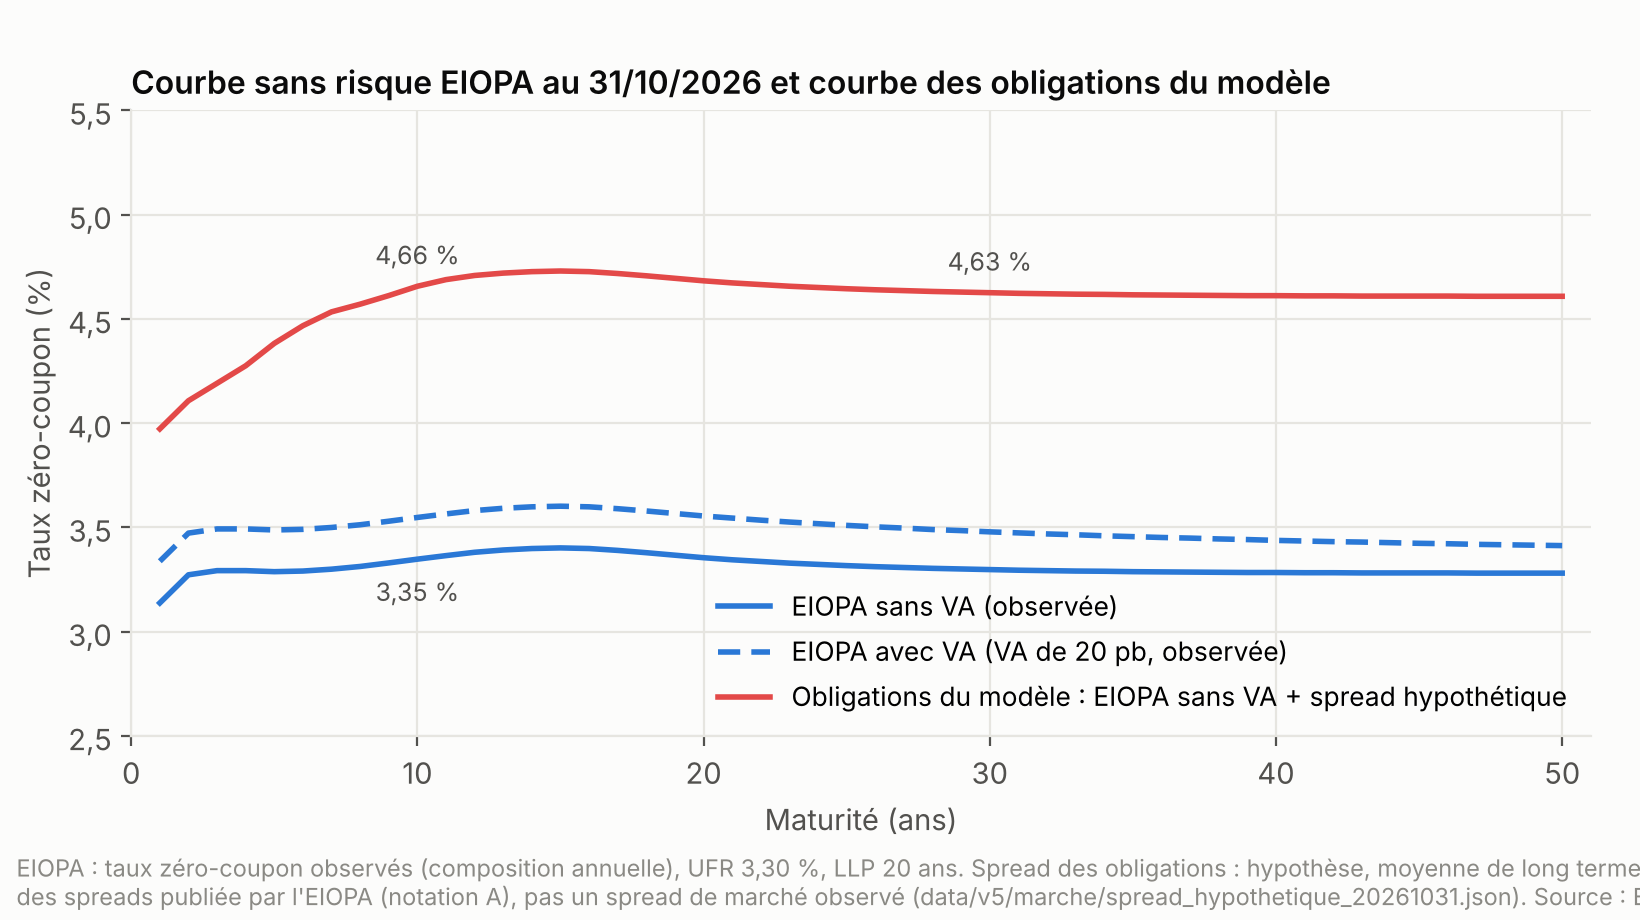
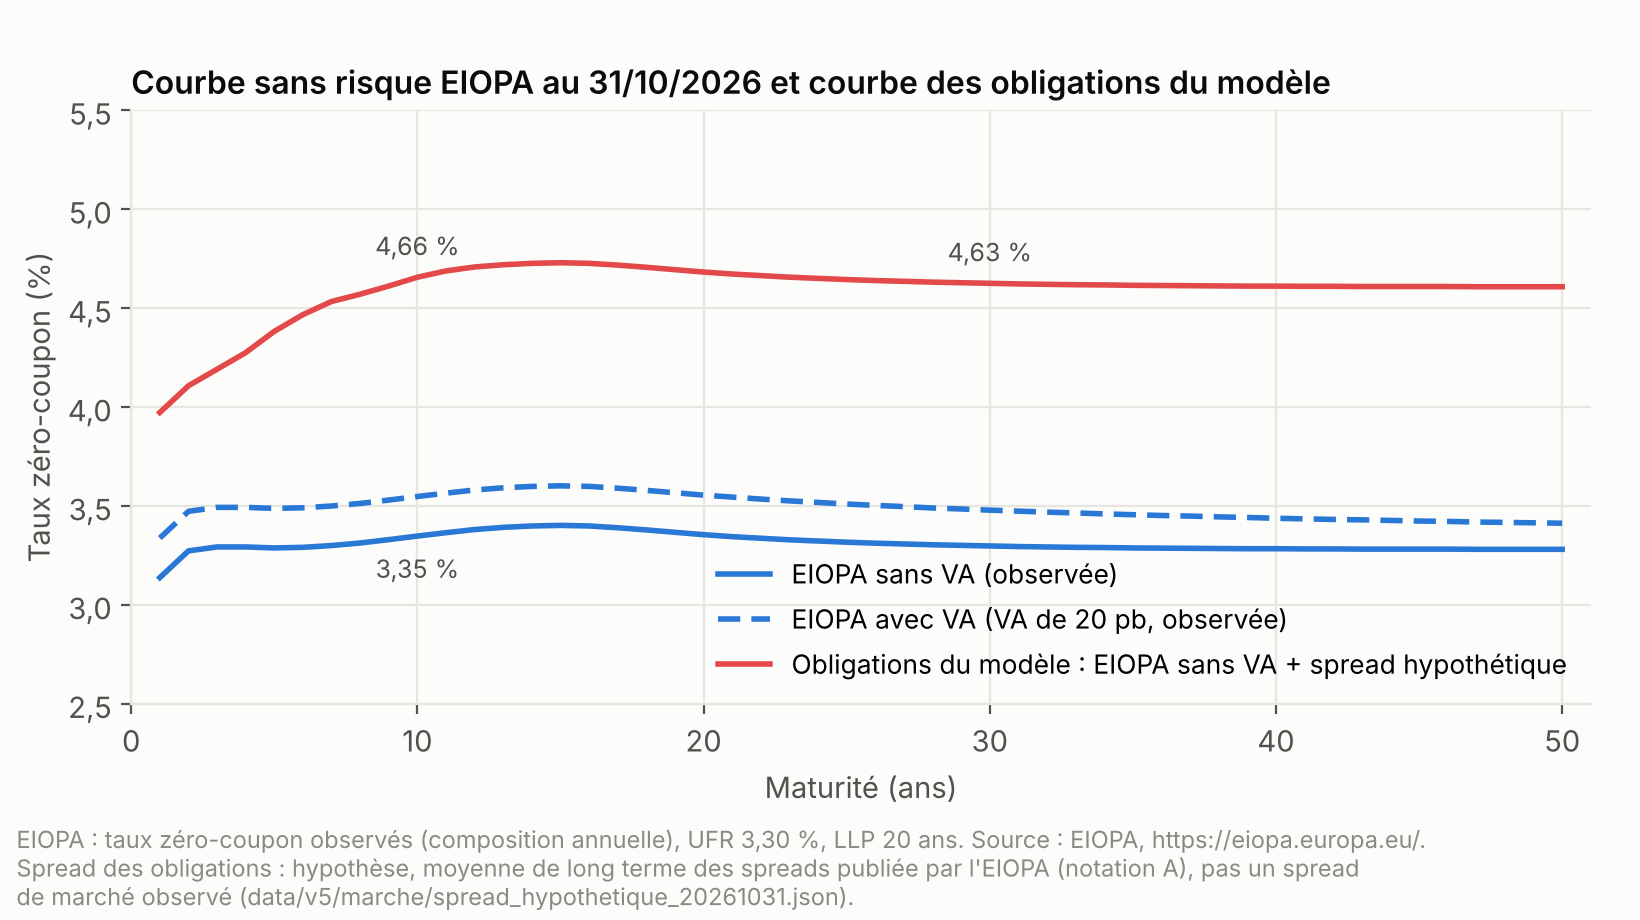
Documentation du calibrage des actifs : courbe EIOPA, LTAS, hypothèse d'usage et part kappa distinguées ; mention de source EIOPA avec l'adresse du site ; note de la figure des taux sur trois lignes ; valeur économique et fonds propres prudentiels distingués

diff --git a/scripts/v5_rapport_conventions.py b/scripts/v5_rapport_conventions.py
@@ -345,7 +345,7 @@ A(f"| Livret A | Référence pilotée par le taux court | Concurrence de l'épar
 A("| Spread intégralement lissé | Convention initiale | Transfert maximal des pertes de crédit aux assurés par le taux servi |")
 A(f"| Spread intégralement par saut, bloc unique | Tout le portefeuille fait défaut d'un coup | Concentration extrême (valeur de B : {f(st('B', 'sans_risque', 'saut_bloc_unique')['valeur'])} ± {f(st('B', 'sans_risque', 'saut_bloc_unique')['ic_be'])}) ; erreur de Monte-Carlo élevée, à recalculer avec plus de scénarios |")
 A("| Recouvrement 63 % | Décote souveraine moyenne de 37 % | Sensibilité au recouvrement (effet modéré) |")
-A("| Pertes effectives de 50 % du spread | Probabilité réelle, 10 ans | Assureur qui subit vraiment une partie du risque souverain : taux servi, rachats, fonds propres |")
+A("| Pertes effectives de 50 % du spread | Probabilité réelle, 10 ans | Assureur qui subit vraiment une partie du risque de crédit : taux servi, rachats, fonds propres |")
 A("| Défaut souverain déterministe | Défaut du bloc de 26 % en année 2, recouvrement 40 % (perte de 15,6 % des obligations) | Événement unique, lisible, pour comparer les stratégies (à construire) |")
 _niv = json.loads((RACINE / "data" / "v5" / "conventions" / "conventions.json").read_text(encoding="utf-8"))["references_assures"]["_niveau_initial"]["valeur"]
 A(f"| Niveau initial de la référence à 2,63 % | Dernier taux servi moyen observé | Le niveau de {100 * _niv:.2f} % est une hypothèse |".replace(".", ","))
@@ -364,7 +364,7 @@ for x in [
     f"Les fuites sont positives dans {fuites_pos} variantes sur {len(ST)} (mêmes tirages de taux et de défaut partout), toujours à l'intérieur de leur intervalle de confiance à 95 % (au plus {f(rapport_max, 2)} fois sa demi-largeur). "
     f"Les écarts de valeur entre spread lissé et spread par saut (de {f(min(ecarts))} à {f(max(ecarts))}) dépassent cette erreur ; le bloc unique demande plus de scénarios.",
     f"**Rachats risque neutre et rachats observés.** Les rachats moyens risque neutre (de {pct(min(v['taux_rachat_moyen_1_10'] for v in ST.values()), 0)} à {pct(max(v['taux_rachat_moyen_1_10'] for v in ST.values()), 0)} par an sur 10 ans selon le profil et les conventions) dépassent le taux observé de 4,4 %. Ce n'est pas une contradiction : en risque neutre, les produits comptables sont nets du coût du spread. Mais la loi de rachat dynamique (paramètres des V1 à V4) n'est calée sur aucune donnée de place, et les quartiles de rachat par organisme (ACPR n° 179) n'ont pas pu être lus.",
-    "**Part de crédit du spread (kappa = 0,8 dans ces premières conventions, 0,7 dans la convention centrale).** C'est une hypothèse, sans recoupement avec des cotations de marché : le spread des obligations est lui-même une hypothèse.",
+    "**Part de crédit du spread (kappa = 0,8 dans ces premières conventions, 0,7 dans la convention centrale).** C'est une hypothèse, sans recoupement avec des cotations de marché : le spread des obligations est lui-même une hypothèse. Ce n'est pas une estimation du risque de défaut des émetteurs, souverains ou entreprises : kappa répartit seulement le spread hypothétique entre une perte par défaut et une perte hors défaut.",
     "**Défaut par saut simplifié.** Recouvrement de 40 % (convention de cotation non vérifiée en ligne), blocs indépendants, réinvestissement immédiat dans le même portefeuille (défauts répétés possibles), ni migration de notation ni spread stochastique : la courbe de spread reste figée, sans dynamique propre.",
     "**Un seul spread pour toutes les obligations.** Souverains, financières et entreprises partagent le même spread hypothétique (notation A).",
     "**Probabilité réelle.** Taux et spreads figés, prime actions fictive de 3 % : ces trajectoires servent à la plausibilité, pas à la prévision.",

diff --git a/scripts/v5_rapport_audit.py b/scripts/v5_rapport_audit.py
@@ -338,12 +338,12 @@ A(f"- **Usage dans le moteur.** Le spread sert à trois choses : (1) le prix de 
   "représentent tout le portefeuille obligataire, souverains et entreprises (simplification) ; (2) en risque neutre, une intensité de perte "
   f"qui rend tout le spread coûteux (absence d'arbitrage) : une part kappa = {f(KAPPA, 1)} passe par des défauts de blocs d'émetteurs, le reste "
   "est une perte lissée ; (3) en probabilité réelle, seule une perte de défaut historique est constatée, l'écart étant une prime de risque. "
-  "Le choc de spread de la vue prudentielle porte sur la part non souveraine. La part kappa est une hypothèse, testée de 0,55 à 1.")
+  "Le choc de spread de la vue prudentielle porte sur la part non souveraine. La part kappa est une hypothèse, testée de 0,55 à 1 ; ce n'est pas une estimation du risque de défaut des émetteurs, souverains ou entreprises : kappa répartit seulement le spread hypothétique entre une perte par défaut et une perte hors défaut.")
 A(f"- **Autres paramètres liés.** Le niveau initial de la référence des assurés ({pct(NIVEAU_REF, 2)}) est une hypothèse, au milieu de la fourchette "
   "des taux servis attendus pour 2026 (2,8 % à 2,9 %, estimations de place) ; les coupons des générations d'obligations des profils fictifs "
   "sont des hypothèses d'ordre de grandeur, sans valeur d'indice reproduite.")
 A("")
-A("Fonds propres économiques = valeur de marché des actifs - BE (- marge de risque). Leur réaction à une variation des taux dépend des "
+A("Valeur économique simplifiée = valeur de marché des actifs - BE ; fonds propres prudentiels simplifiés = actifs - BE - marge de risque + fonds excédentaires - impôts différés passifs (le SCR est une exigence de capital, pas un passif). Leur réaction à une variation des taux dépend des "
   "sensibilités respectives des obligations et des engagements, ces dernières dépendant elles-mêmes de la participation, des garanties et "
   "des rachats : ce point est mesuré par la vue prudentielle (chocs de taux), pas par le niveau des courbes.")
 A("")

diff --git a/scripts/v5_figures.py b/scripts/v5_figures.py
@@ -91,7 +91,7 @@ def contexte_taux(sortie):
     oblig = CourbeAvecSpread(courbe_eiopa(), spread_obligations())
     ob = [100 * oblig.taux_zc(k) for k in m]
     fig, ax = plt.subplots(figsize=(8.2, 4.6))
-    fig.subplots_adjust(left=0.08, right=0.97, top=0.88, bottom=0.2)
+    fig.subplots_adjust(left=0.08, right=0.97, top=0.88, bottom=0.235)
     ax.plot(m, sans, color=FAV, lw=2, label="EIOPA sans VA (observée)")
     ax.plot(m, avec, color=FAV, lw=2, ls=(0, (4, 2)), label="EIOPA avec VA (VA de 20 pb, observée)")
     ax.plot(m, ob, color=DEFAV, lw=2, label="Obligations du modèle : EIOPA sans VA + spread hypothétique")
@@ -105,8 +105,9 @@ def contexte_taux(sortie):
     ax.yaxis.set_major_formatter(lambda v, _: fr(v, 1))
     ax.set_title("Courbe sans risque EIOPA au 31/10/2026 et courbe des obligations du modèle")
     ax.legend(loc="lower right", fontsize=9.5)
-    note(fig, "EIOPA : taux zéro-coupon observés (composition annuelle), UFR 3,30 %, LLP 20 ans. Spread des obligations : hypothèse, moyenne de long terme\n"
-              "des spreads publiée par l'EIOPA (notation A), pas un spread de marché observé (data/v5/marche/spread_hypothetique_20261031.json). Source : EIOPA.")
+    note(fig, "EIOPA : taux zéro-coupon observés (composition annuelle), UFR 3,30 %, LLP 20 ans. Source : EIOPA, https://eiopa.europa.eu/.\n"
+              "Spread des obligations : hypothèse, moyenne de long terme des spreads publiée par l'EIOPA (notation A), pas un spread\n"
+              "de marché observé (data/v5/marche/spread_hypothetique_20261031.json).")
     return sauver(fig, sortie, "contexte_taux.png")
 
 

diff --git a/scripts/v5_rapport_synthese.py b/scripts/v5_rapport_synthese.py
@@ -254,7 +254,7 @@ fr = [("Référence des assurés", "proxy fictif ; écart entre lissages 3 et 10
        + " ; avec le bloc unique : " + ", ".join(f"{f(-dv(p, 'structure_bloc_unique'))} ({p})" for p in N)),
       ("Spread", "élargissement instantané de 100 pb : " + ", ".join(f"{f(dv(p, 'spread_plus_100'))} ({p})" for p in N)),
       ("Part de crédit kappa", "écart entre 0,55 et 1 : " + ", ".join(f"{f(q(p, 'credit_kappa_55')['valeur'] - q(p, 'credit_kappa_100')['valeur'])} ({p})" for p in N)),
-      ("Probabilité réelle de défaut souverain", "historique d'entreprises, rapport de 30 avec le risque neutre contre 2 publié"),
+      ("Probabilité réelle de défaut", f"taux historique d'entreprises notées comme le portefeuille ; rapport d'environ {f(cmp_['rapport_pd_moyennes'], 0)} avec le risque neutre (section 2.4), contre {f(cmp_['rapport_publie_zone_euro'], 0)} publié pour les souverains de la zone euro"),
       ("Indicateur prudentiel", "sans mesure transitoire, ajustement symétrique nul, spread ventilé selon la place, fonds excédentaires simplifiés"),
       ("Données de place manquantes", "ACPR n° 185 (moins-values 2026, composition des fonds propres et du SCR), quartiles de rachat du n° 179")]
 A("| Hypothèse | Pourquoi elle compte |\n| --- | --- |")

diff --git a/scripts/v5_spread_hypothetique.py b/scripts/v5_spread_hypothetique.py
@@ -30,7 +30,7 @@ sys.path.insert(0, str(RACINE))
 from src.v5.courbes_marche import DOSSIER_MARCHE, courbe_eiopa, provenance  # noqa: E402
 
 SERIES = ("EUR_Financials_2", "EUR_Non-Financials_2")
-ATTRIBUTION = ("Source: EIOPA - European Insurance and Occupational Pensions Authority. This document has been drafted using "
+ATTRIBUTION = ("Source: EIOPA - European Insurance and Occupational Pensions Authority, https://eiopa.europa.eu/. This document has been drafted using "
                "material downloaded from EIOPA website. EIOPA does not endorse this publication and in no way is liable for "
                "copyright or other intellectual property rights infringements nor for any damages caused to third-parties "
                "through this publication.")

diff --git a/docs/V5_CONVENTIONS.md b/docs/V5_CONVENTIONS.md
@@ -319,7 +319,7 @@ Ensuite la sensibilité aux taux. Même la référence lissée donne une valeur 
 | Spread intégralement lissé | Convention initiale | Transfert maximal des pertes de crédit aux assurés par le taux servi |
 | Spread intégralement par saut, bloc unique | Tout le portefeuille fait défaut d'un coup | Concentration extrême (valeur de B : −1,3 ± 8,3) ; erreur de Monte-Carlo élevée, à recalculer avec plus de scénarios |
 | Recouvrement 63 % | Décote souveraine moyenne de 37 % | Sensibilité au recouvrement (effet modéré) |
-| Pertes effectives de 50 % du spread | Probabilité réelle, 10 ans | Assureur qui subit vraiment une partie du risque souverain : taux servi, rachats, fonds propres |
+| Pertes effectives de 50 % du spread | Probabilité réelle, 10 ans | Assureur qui subit vraiment une partie du risque de crédit : taux servi, rachats, fonds propres |
 | Défaut souverain déterministe | Défaut du bloc de 26 % en année 2, recouvrement 40 % (perte de 15,6 % des obligations) | Événement unique, lisible, pour comparer les stratégies (à construire) |
 | Niveau initial de la référence à 2,63 % | Dernier taux servi moyen observé | Le niveau de 2,85 % est une hypothèse |
 | Chocs de la formule standard | Taux, actions, spread, rachat massif (vue prudentielle) | Capital et absorption par les FDB |
@@ -328,7 +328,7 @@ Ensuite la sensibilité aux taux. Même la référence lissée donne une valeur 
 
 - **Monte-Carlo.** Le défaut par saut augmente la variance : la demi-largeur de l'intervalle de la fuite atteint 5,6 avec 1 000 scénarios, et de 11,2 à 15,0 pour le bloc unique. Les fuites sont positives dans 75 variantes sur 75 (mêmes tirages de taux et de défaut partout), toujours à l'intérieur de leur intervalle de confiance à 95 % (au plus 0,99 fois sa demi-largeur). Les écarts de valeur entre spread lissé et spread par saut (de 8,9 à 21,7) dépassent cette erreur ; le bloc unique demande plus de scénarios.
 - **Rachats risque neutre et rachats observés.** Les rachats moyens risque neutre (de 5 % à 15 % par an sur 10 ans selon le profil et les conventions) dépassent le taux observé de 4,4 %. Ce n'est pas une contradiction : en risque neutre, les produits comptables sont nets du coût du spread. Mais la loi de rachat dynamique (paramètres des V1 à V4) n'est calée sur aucune donnée de place, et les quartiles de rachat par organisme (ACPR n° 179) n'ont pas pu être lus.
-- **Part de crédit du spread (kappa = 0,8 dans ces premières conventions, 0,7 dans la convention centrale).** C'est une hypothèse, sans recoupement avec des cotations de marché : le spread des obligations est lui-même une hypothèse.
+- **Part de crédit du spread (kappa = 0,8 dans ces premières conventions, 0,7 dans la convention centrale).** C'est une hypothèse, sans recoupement avec des cotations de marché : le spread des obligations est lui-même une hypothèse. Ce n'est pas une estimation du risque de défaut des émetteurs, souverains ou entreprises : kappa répartit seulement le spread hypothétique entre une perte par défaut et une perte hors défaut.
 - **Défaut par saut simplifié.** Recouvrement de 40 % (convention de cotation non vérifiée en ligne), blocs indépendants, réinvestissement immédiat dans le même portefeuille (défauts répétés possibles), ni migration de notation ni spread stochastique : la courbe de spread reste figée, sans dynamique propre.
 - **Un seul spread pour toutes les obligations.** Souverains, financières et entreprises partagent le même spread hypothétique (notation A).
 - **Probabilité réelle.** Taux et spreads figés, prime actions fictive de 3 % : ces trajectoires servent à la plausibilité, pas à la prévision.

diff --git a/docs/V5_AUDIT_CONVENTIONS.md b/docs/V5_AUDIT_CONVENTIONS.md
@@ -151,10 +151,10 @@ La courbe sans risque de l'EIOPA au 31/10/2026 (zéro-coupon, dérivée des swap
 | LTAS, obligations non financières notées A (EIOPA) | 0,56 % | 0,56 % | 0,80 % | 1,05 % | 1,08 % | 1,08 % | 1,08 % |
 | Spread hypothétique du modèle (continu) | 81 pb | 81 pb | 105 pb | 126 pb | 128 pb | 128 pb | 128 pb |
 
-- **Usage dans le moteur.** Le spread sert à trois choses : (1) le prix de marché à l'ouverture des obligations détenues, qui représentent tout le portefeuille obligataire, souverains et entreprises (simplification) ; (2) en risque neutre, une intensité de perte qui rend tout le spread coûteux (absence d'arbitrage) : une part kappa = 0,7 passe par des défauts de blocs d'émetteurs, le reste est une perte lissée ; (3) en probabilité réelle, seule une perte de défaut historique est constatée, l'écart étant une prime de risque. Le choc de spread de la vue prudentielle porte sur la part non souveraine. La part kappa est une hypothèse, testée de 0,55 à 1.
+- **Usage dans le moteur.** Le spread sert à trois choses : (1) le prix de marché à l'ouverture des obligations détenues, qui représentent tout le portefeuille obligataire, souverains et entreprises (simplification) ; (2) en risque neutre, une intensité de perte qui rend tout le spread coûteux (absence d'arbitrage) : une part kappa = 0,7 passe par des défauts de blocs d'émetteurs, le reste est une perte lissée ; (3) en probabilité réelle, seule une perte de défaut historique est constatée, l'écart étant une prime de risque. Le choc de spread de la vue prudentielle porte sur la part non souveraine. La part kappa est une hypothèse, testée de 0,55 à 1 ; ce n'est pas une estimation du risque de défaut des émetteurs, souverains ou entreprises : kappa répartit seulement le spread hypothétique entre une perte par défaut et une perte hors défaut.
 - **Autres paramètres liés.** Le niveau initial de la référence des assurés (2,85 %) est une hypothèse, au milieu de la fourchette des taux servis attendus pour 2026 (2,8 % à 2,9 %, estimations de place) ; les coupons des générations d'obligations des profils fictifs sont des hypothèses d'ordre de grandeur, sans valeur d'indice reproduite.
 
-Fonds propres économiques = valeur de marché des actifs - BE (- marge de risque). Leur réaction à une variation des taux dépend des sensibilités respectives des obligations et des engagements, ces dernières dépendant elles-mêmes de la participation, des garanties et des rachats : ce point est mesuré par la vue prudentielle (chocs de taux), pas par le niveau des courbes.
+Valeur économique simplifiée = valeur de marché des actifs - BE ; fonds propres prudentiels simplifiés = actifs - BE - marge de risque + fonds excédentaires - impôts différés passifs (le SCR est une exigence de capital, pas un passif). Leur réaction à une variation des taux dépend des sensibilités respectives des obligations et des engagements, ces dernières dépendant elles-mêmes de la participation, des garanties et des rachats : ce point est mesuré par la vue prudentielle (chocs de taux), pas par le niveau des courbes.
 
 ## 4. Avant et après : V5.0 publiée et V5.1
 

diff --git a/docs/V5_METHODOLOGIE.md b/docs/V5_METHODOLOGIE.md
@@ -74,8 +74,8 @@ Comparaison chiffrée et proposition de convention centrale : `docs/V5_CONVENTIO
 
 Résultats et démonstrations : `docs/V5_SYNTHESE_AVANT_OPTIMISATION.md`. Paramètres et statuts : `data/v5/conventions/conventions.json`.
 
-- **Part de crédit.** kappa, part du spread traitée comme perte de défaut : hypothèse, 0,7 au centre, 0,55 et 1 en sensibilité.
-- **Structure de défaut.** Copule gaussienne à un facteur sur 50 blocs (rho = 0,2), qui garde la probabilité de chaque bloc et donc les prix ; défaut corrélé par bloc (souverain de 26 %) et bloc unique en stress.
+- **Part de crédit.** kappa, part du spread traitée comme perte de défaut : hypothèse, 0,7 au centre, 0,55 et 1 en sensibilité. Ce n'est pas une estimation du risque de défaut des émetteurs, souverains ou entreprises : kappa répartit seulement le spread hypothétique entre une perte par défaut et une perte hors défaut.
+- **Structure de défaut.** Copule gaussienne à un facteur sur 50 blocs (rho = 0,2), qui garde la probabilité de chaque bloc et donc les prix ; défaut corrélé par bloc (bloc souverain de 26 %) et bloc unique en stress. Ces structures testent la concentration : chaque bloc, souverain compris, garde l'intensité de défaut tirée du spread hypothétique.
 - **Probabilité réelle stochastique.** `src/v5/reel.py` : taux du générateur (prime de terme nulle), prime actions de 3 %, défauts aux probabilités réelles sur les mêmes blocs, spreads figés ; distributions d'apports, de fonds propres comptables négatifs et de liquidité, sans valorisation.
 - **Référence des assurés.** Le lissage sur 7 ans est un proxy comportemental fictif. Il est confronté à une référence composite (taux servi moyen 2025 et livret A observés, obligations à 10 ans du modèle), avec délais de transmission et coefficients de réaction paramétrés et poids fictifs.
 - **Rachat structurel.** 4,4 % au sens de l'ACPR (rachats / provisions d'ouverture), converti dans la convention du modèle (taux appliqué aux PM revalorisées nettes des décès). La loi dynamique est la même en risque neutre et en probabilité réelle ; seules les trajectoires d'entrée changent.

diff --git a/docs/V5_HYPOTHESES.md b/docs/V5_HYPOTHESES.md
@@ -28,7 +28,7 @@ Généré par `scripts/v5_registre_hypotheses.py` à partir des seuls fichiers d
 
[1 lines of base64/hex data omitted]
 
-**Conditions de réutilisation des données EIOPA** : Source: EIOPA - European Insurance and Occupational Pensions Authority. This document has been drafted using material downloaded from EIOPA website. EIOPA does not endorse this publication and in no way is liable for copyright or other intellectual property rights infringements nor for any damages caused to third-parties through this publication.
+**Conditions de réutilisation des données EIOPA** : Source: EIOPA - European Insurance and Occupational Pensions Authority, https://eiopa.europa.eu/. This document has been drafted using material downloaded from EIOPA website. EIOPA does not endorse this publication and in no way is liable for copyright or other intellectual property rights infringements nor for any damages caused to third-parties through this publication.
 
 ## 2. Profils d'assureur (fictifs)
 

diff --git a/data/v5/README.md b/data/v5/README.md
@@ -26,6 +26,6 @@ Dans `conventions/conventions.json`, le statut **hypothèse** désigne un choix 
 
 ## Conditions de réutilisation
 
-- **Données EIOPA** (courbe sans risque et LTAS, `marche/`) : réutilisation autorisée avec mention de la source. Source: EIOPA - European Insurance and Occupational Pensions Authority. This document has been drafted using material downloaded from EIOPA website. EIOPA does not endorse this publication and in no way is liable for copyright or other intellectual property rights infringements nor for any damages caused to third-parties through this publication.
+- **Données EIOPA** (courbe sans risque et LTAS, `marche/`) : réutilisation autorisée avec mention de la source. Source: EIOPA - European Insurance and Occupational Pensions Authority, https://eiopa.europa.eu/. This document has been drafted using material downloaded from EIOPA website. EIOPA does not endorse this publication and in no way is liable for copyright or other intellectual property rights infringements nor for any damages caused to third-parties through this publication.
 - **Aucune donnée d'indice de taux de l'État** n'est utilisée ni redistribuée : le spread des obligations est une hypothèse construite à partir des seules publications de l'EIOPA.
 - **Publications de place** (ACPR, France Assureurs, presse) : seuls des chiffres agrégés sont cités, avec leur source, dans `conventions/`, `profils/` et `collecte/`.
